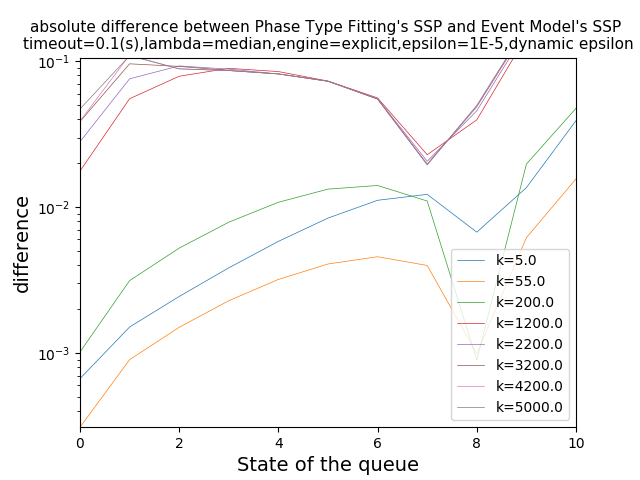
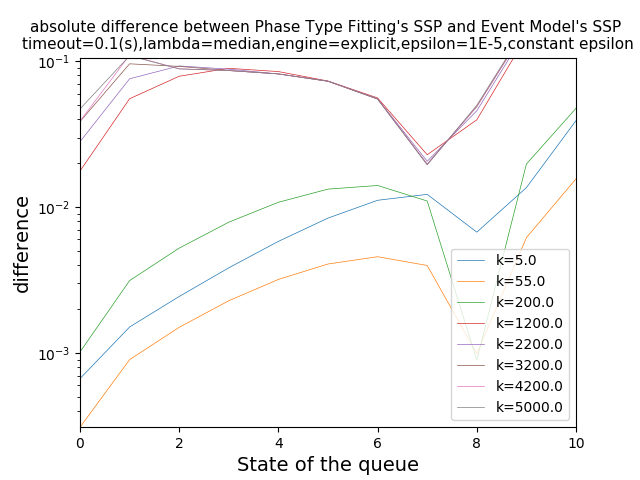
change title of images

diff --git a/Python/curves.py b/Python/curves.py
@@ -133,7 +133,7 @@ def diff_per_state(t,kind_of_t,engine,kind_of_epsilon):
 	plt.xlim(0, 10)
 	plt.ylim(0, y_k[-1])
 	plt.gca().set_aspect('equal', adjustable='box')
-	plt.title('absolute difference between Phase Type Fitting\'s SSP and Event Model\'s SSP \ntimeout='+str(t)+'(s),lambda='+kind_of_t+',engine='+engine+',epsilon='+eps+',dynamic epsilon',fontsize=11)
+	plt.title('absolute difference between Phase Type Fitting\'s SSP and Event Model\'s SSP \ntimeout='+str(t)+'(s),lambda='+kind_of_t+',engine='+engine+',epsilon='+eps+','+kind_of_epsilon+' epsilon',fontsize=11)
 	plt.legend()
 	plt.show()	
 
